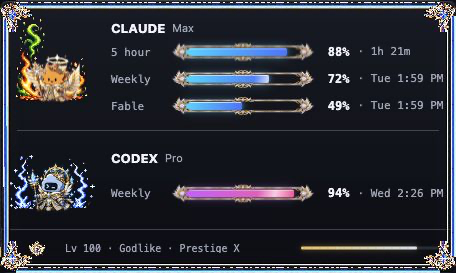
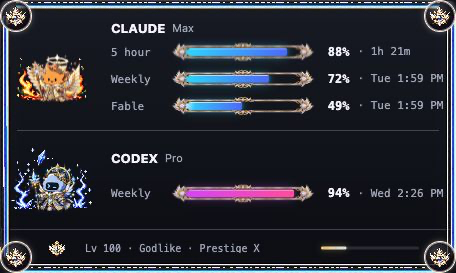
fix: replace frame corners with emblem caps

diff --git a/src/styles.css b/src/styles.css
@@ -142,6 +142,11 @@ body {
   font-variant-numeric: tabular-nums;
 }
 
+#root[data-frame-art="true"] #progress {
+  padding-right: 36px;
+  padding-left: 36px;
+}
+
 #progress .level {
   display: block;
   overflow: hidden;
@@ -917,15 +922,27 @@ body {
 }
 
 .frame-corner {
-  z-index: 1;
+  z-index: 3;
   width: 32px;
   height: 32px;
   overflow: hidden;
+  border: 1px solid color-mix(in srgb, var(--frame-1) 82%, white);
+  border-radius: 50%;
   background-image:
-    var(--frame-prestige-corner-piece, none),
-    var(--frame-rank-corner-piece, none);
+    var(--frame-corner-emblem, none),
+    radial-gradient(
+      circle at 38% 32%,
+      rgba(255, 255, 255, 0.2),
+      rgba(9, 11, 20, 0.98) 62%
+    );
   background-repeat: no-repeat;
-  background-size: 48px 48px;
+  background-position: center;
+  background-size:
+    48px 24px,
+    100% 100%;
+  box-shadow:
+    inset 0 0 0 1px color-mix(in srgb, var(--frame-2) 62%, transparent),
+    0 0 6px color-mix(in srgb, var(--frame-glow) 48%, transparent);
   image-rendering: pixelated;
 }
 
@@ -934,57 +951,28 @@ body {
   background-image: var(--frame-prestige-piece, none);
 }
 
-#perimeter[data-prestige]:not([data-prestige="0"]) .frame-corner {
-  background-image: var(--frame-prestige-corner-piece, none);
-  background-size: 40px 40px;
-}
-
-#perimeter[data-prestige]:not([data-prestige="0"]) .frame-corner--tl {
-  background-position: bottom right;
-}
-
-#perimeter[data-prestige]:not([data-prestige="0"]) .frame-corner--tr {
-  background-position: bottom left;
-}
-
-#perimeter[data-prestige]:not([data-prestige="0"]) .frame-corner--bl {
-  background-position: top right;
-}
-
-#perimeter[data-prestige]:not([data-prestige="0"]) .frame-corner--br {
-  background-position: top left;
+#root:not([data-frame-art="true"]) .frame-corner {
+  display: none;
 }
 
 .frame-corner--tl {
   top: 0;
   left: 0;
-  background-position: top left;
-  --frame-rank-corner-piece: var(--frame-rank-corner-tl);
-  --frame-prestige-corner-piece: var(--frame-prestige-corner-tl);
 }
 
 .frame-corner--tr {
   top: 0;
   right: 0;
-  background-position: top right;
-  --frame-rank-corner-piece: var(--frame-rank-corner-tr);
-  --frame-prestige-corner-piece: var(--frame-prestige-corner-tr);
 }
 
 .frame-corner--bl {
   bottom: 0;
   left: 0;
-  background-position: bottom left;
-  --frame-rank-corner-piece: var(--frame-rank-corner-bl);
-  --frame-prestige-corner-piece: var(--frame-prestige-corner-bl);
 }
 
 .frame-corner--br {
   right: 0;
   bottom: 0;
-  background-position: bottom right;
-  --frame-rank-corner-piece: var(--frame-rank-corner-br);
-  --frame-prestige-corner-piece: var(--frame-prestige-corner-br);
 }
 
 .frame-ornaments {
@@ -1123,65 +1111,31 @@ body {
 }
 
 .frame-corner::after {
-  background: rgba(255, 252, 226, 0.78);
-  -webkit-mask-image: var(--frame-prestige-corner-piece, none);
-  -webkit-mask-repeat: no-repeat;
-  -webkit-mask-size: 48px 48px;
-  mask-image: var(--frame-prestige-corner-piece, none);
-  mask-repeat: no-repeat;
-  mask-size: 48px 48px;
+  inset: 2px;
+  border-radius: 50%;
+  background: radial-gradient(
+    circle,
+    rgba(255, 252, 226, 0.72),
+    transparent 68%
+  );
 }
 
-.frame-corner--tl::after {
-  -webkit-mask-position: top left;
-  mask-position: top left;
+.frame-corner::before {
+  position: absolute;
+  top: 50%;
+  left: 50%;
+  z-index: 1;
+  width: 8px;
+  height: 8px;
+  border: 1px solid color-mix(in srgb, var(--frame-1) 80%, white);
+  background: linear-gradient(135deg, var(--frame-2), var(--frame-1));
+  box-shadow: 0 0 5px var(--frame-glow);
+  content: "";
+  transform: translate(-50%, -50%) rotate(45deg);
 }
 
-.frame-corner--tr::after {
-  -webkit-mask-position: top right;
-  mask-position: top right;
-}
-
-.frame-corner--bl::after {
-  -webkit-mask-position: bottom left;
-  mask-position: bottom left;
-}
-
-.frame-corner--br::after {
-  -webkit-mask-position: bottom right;
-  mask-position: bottom right;
-}
-
-#perimeter[data-prestige]:not([data-prestige="0"])
-  .frame-corner--tl::after {
-  -webkit-mask-size: 40px 40px;
-  -webkit-mask-position: bottom right;
-  mask-size: 40px 40px;
-  mask-position: bottom right;
-}
-
-#perimeter[data-prestige]:not([data-prestige="0"])
-  .frame-corner--tr::after {
-  -webkit-mask-size: 40px 40px;
-  -webkit-mask-position: bottom left;
-  mask-size: 40px 40px;
-  mask-position: bottom left;
-}
-
-#perimeter[data-prestige]:not([data-prestige="0"])
-  .frame-corner--bl::after {
-  -webkit-mask-size: 40px 40px;
-  -webkit-mask-position: top right;
-  mask-size: 40px 40px;
-  mask-position: top right;
-}
-
-#perimeter[data-prestige]:not([data-prestige="0"])
-  .frame-corner--br::after {
-  -webkit-mask-size: 40px 40px;
-  -webkit-mask-position: top left;
-  mask-size: 40px 40px;
-  mask-position: top left;
+#perimeter[data-corner-emblem="true"] .frame-corner::before {
+  display: none;
 }
 
 #perimeter[data-prestige="7"] .frame-rail::after,

diff --git a/src/frame-renderer.ts b/src/frame-renderer.ts
@@ -18,6 +18,7 @@ const ORNAMENT_COUNTS: Record<FrameSide, number> = {
 
 type FrameRenderPlan = {
   cssVariables: Record<string, string>;
+  hasCornerEmblem: boolean;
   ornamentCounts: Record<FrameSide, number>;
   /** @deprecated Compatibility metadata; it is never rendered. */
   prestigeText: string;
@@ -66,6 +67,7 @@ export function frameRenderPlan(
 ): FrameRenderPlan {
   const cssVariables: Record<string, string> = {};
   const ornamentCounts = {} as Record<FrameSide, number>;
+  const cornerEmblem = model.prestige?.crestTop ?? model.rank?.crestTop;
 
   for (const side of SIDES) {
     cssVariables[`--frame-rank-rail-${side}`] = cssUrl(
@@ -91,12 +93,14 @@ export function frameRenderPlan(
   }
 
   cssVariables["--frame-crest"] = cssUrl(model.rank?.crestTop);
+  cssVariables["--frame-corner-emblem"] = cssUrl(cornerEmblem);
   cssVariables["--progress-prestige-crest"] = cssUrl(
     model.prestige?.crestTop,
   );
 
   return {
     cssVariables,
+    hasCornerEmblem: Boolean(cornerEmblem),
     ornamentCounts,
     prestigeText: model.prestigeText,
   };
@@ -114,6 +118,7 @@ export function applyFrameDecoration(
 
   perimeter.dataset.rank = model.resolvedTier;
   perimeter.dataset.prestige = prestigeLevel(model);
+  perimeter.dataset.cornerEmblem = String(plan.hasCornerEmblem);
   if (perimeter.parentElement) {
     perimeter.parentElement.style.setProperty(
       "--progress-prestige-crest",
